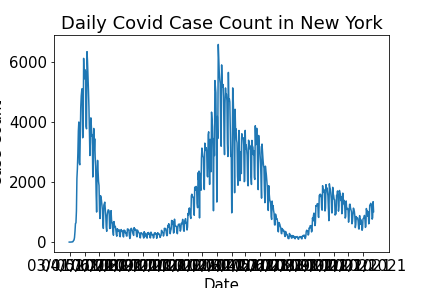
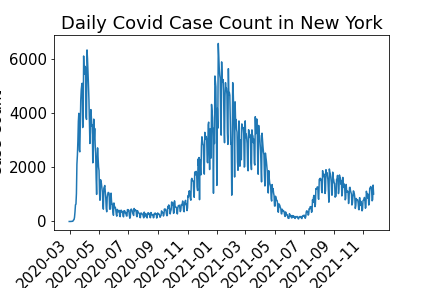
.

diff --git a/Covid19Project.py b/Covid19Project.py
@@ -1,0 +1,200 @@
+# Name: Stefan Kolev
+# Title: Covid and Police Activity
+# Resources: https://builtin.com/data-science/time-series-python https://www.ritchieng.com/machine-learning-evaluate-linear-regression-model/ python and library documentation textbook (Others are on abstract)
+# URL: https://stefancodes17.github.io/StefanCodes17.io/
+
+# In[68]:
+
+
+# Imports
+import pandas as pd
+import folium
+import matplotlib.pyplot as plt
+import matplotlib.style as style
+import seaborn as sns
+
+
+# In[69]:
+
+# Includes dates, case counts, borough division
+# Load Covid Datasets
+CovidDailyCounts = pd.read_csv("./datasets/Covid/COVID-19_Daily_Counts_of_Cases__Hospitalizations__and_Deaths.csv")
+CovidByBoro = pd.read_csv("./datasets/Covid/CovidByBoro.csv")
+CovidByRegion = pd.read_csv("./datasets/Covid/New_York_Forward_COVID-19_Daily_Hospitalization_Summary_by_Region.csv")
+PopulationByBorough = pd.read_csv("./datasets/NewYork/NYC_Population_by_Borough.csv")
+GeoInfo = pd.read_csv("./datasets/Covid/NewYorkBoroughGeoInformation.csv")
+
+
+# In[70]:
+
+# Broough divisions, arrest and shootings count for NYC
+# Load Police Datasets
+DailyArrestCount = pd.read_csv("./datasets/PoliceActivity/NYPD_Arrest_Data__Year_to_Date_.csv")
+PastDailyArrestCount = pd.read_csv("datasets/PoliceActivity/NYPD_Arrests_Data__Historic_.csv")
+DailyShootingsCount = pd.read_csv("./datasets/PoliceActivity/NYPD_Shooting_Incident_Data__Year_To_Date_.csv")
+
+
+# In[71]:
+
+
+# Covid Daily Counts Dataset
+CovidDailyCounts['DATE_OF_INTEREST'] = pd.to_datetime(CovidDailyCounts['DATE_OF_INTEREST'])
+fig,ax = plt.subplots()
+fig.autofmt_xdate(rotation=45)
+plt.plot(CovidDailyCounts['DATE_OF_INTEREST'], CovidDailyCounts['CASE_COUNT'])
+plt.rcParams.update({'font.size': 15})
+plt.title("Daily Covid Case Count in New York")
+plt.xlabel("Date")
+plt.ylabel("Case Count")
+plt.savefig('./visualizations/case_count.png')
+plt.show()
+
+
+# In[72]:
+
+
+fig,ax = plt.subplots()
+fig.autofmt_xdate(rotation=45)
+plt.plot(CovidDailyCounts['DATE_OF_INTEREST'], CovidDailyCounts['DEATH_COUNT'])
+plt.title("Daily Covid Death Count in New York")
+plt.xlabel("Date")
+plt.ylabel("Case Count")
+plt.savefig('./visualizations/death_count.png')
+plt.show()
+
+
+# In[73]:
+
+
+plt.show()
+fig,ax = plt.subplots()
+fig.autofmt_xdate(rotation=45)
+plt.plot(CovidDailyCounts['DATE_OF_INTEREST'], CovidDailyCounts['HOSPITALIZED_COUNT'])
+plt.title("Daily Covid Hospitalizations Count in New York")
+plt.xlabel("Date")
+plt.ylabel("Case Count")
+plt.savefig('./visualizations/hosp_count.png')
+plt.show()
+
+
+# In[74]:
+
+
+CovidByBoro["Borough"].unique()
+CovidByBoro["Date"] = pd.to_datetime(CovidByBoro["Date"])
+
+
+# In[75]:
+
+# Seen throughout, tilts the x-axis labels
+fig,ax = plt.subplots()
+fig.autofmt_xdate(rotation=45)
+plt.ylabel("Daily Admit (per 10 thousand")
+sns.scatterplot(x="Date", y="Admit_All_ages", data=CovidByBoro, hue="Borough")
+plt.savefig('./visualizations/borough_viz.png')
+
+
+# In[ ]:
+
+
+
+
+
+# In[76]:
+
+
+AdmitPerBorough = CovidByBoro.groupby(["Borough"]).sum()["Admit_All_ages"].transpose()
+AdmitPerBoroughPop = pd.merge(PopulationByBorough, AdmitPerBorough, right_on="Borough", left_on="Borough", how="right")
+AdmitPerBoroughPop["Admit_All_ages"] = AdmitPerBoroughPop["Admit_All_ages"] * 10000
+plt.bar(AdmitPerBoroughPop["Borough"], AdmitPerBoroughPop["Admit_All_ages"] / AdmitPerBoroughPop["Population"])  
+plt.xlabel("Borough")
+plt.ylabel("Percent of Population Admitted to Hospital")
+plt.title("Percent Hospital Admission for Each Borough")
+plt.savefig('./visualizations/percenthosp_count.png')
+
+
+# In[77]:
+
+
+# mymap = folium.Map(location=[40.7, -73.9], zoom_start=10)
+# GeoInfo_df = pd.merge(GeoInfo, AdmitPerBoroughPop, left_on="BoroName", right_on="Borough", how="left")
+# mymap.choropleth(
+#  geo_data=GeoInfo_df,
+#  name='Choropleth',
+#  data=GeoInfo_df,
+#  columns=['Borough','Admit_All_ages'],
+#  key_on="feature.properties.Admit_All_ages",
+#  fill_color='YlGnBu',
+#  fill_opacity=1,
+#  line_opacity=0.2,
+#  legend_name='Resident foreign population in %',
+#  smooth_factor=0
+# )
+# mymap
+# GeoInfo_df
+
+
+# In[78]:
+
+
+CovidByBoro.groupby(["Borough"]).sum()["Admit_All_ages"]
+
+
+# In[79]:
+
+
+CovidByRegion['As of Date'] = pd.to_datetime(CovidByRegion['As of Date'])
+CovidByRegion = CovidByRegion.groupby(["Region", "As of Date"]).sum()
+
+
+# In[80]:
+
+
+fig,ax = plt.subplots()
+fig.autofmt_xdate(rotation=45)
+plt.title("Total Patients Hospitalized Per Borough")
+sns.lineplot(x="As of Date", y="Total Patients Hospitalized", data=CovidByRegion, hue="Region")
+plt.legend(loc="upper right", prop={'size': 10})
+plt.savefig('./visualizations/hosp_countborough.png')
+
+
+# In[81]:
+
+
+# Visualize Police Data
+DailyArrestCount["ARREST_DATE"] = pd.to_datetime(DailyArrestCount["ARREST_DATE"])
+ArrestPerBorough = DailyArrestCount.groupby(["ARREST_DATE", "ARREST_BORO"]).count()
+fig,ax = plt.subplots()
+fig.autofmt_xdate(rotation=45)
+plt.title("Daily Arrest Per Borough")
+plt.ylabel("Count")
+plt.xlabel("Date")
+sns.scatterplot(x="ARREST_DATE", y="PD_DESC", data=ArrestPerBorough, hue="ARREST_BORO")
+plt.legend(loc="upper right", prop={'size': 12})
+plt.savefig('./visualizations/arrest_count.png')
+
+
+# In[82]:
+
+
+# Visualize Historic
+fig,ax = plt.subplots()
+fig.autofmt_xdate(rotation=45)
+plt.title("Historic Daily Arrest Per Borough")
+plt.ylabel("Count")
+plt.xlabel("Date")
+PastDailyArrestCount["ARREST_DATE"] = pd.to_datetime(PastDailyArrestCount["ARREST_DATE"])
+PastArrestPerBorough = PastDailyArrestCount.groupby(["ARREST_DATE", "ARREST_BORO"]).count()
+ax = sns.scatterplot(x="ARREST_DATE", y="PD_DESC", data=PastArrestPerBorough, hue="ARREST_BORO")
+plt.legend(loc="upper right", prop={'size': 12})
+ax.set(ylim=(0, 250))
+plt.savefig('./visualizations/histarrest_count.png')
+
+
+# 
+
+# In[83]:
+
+
+
+
